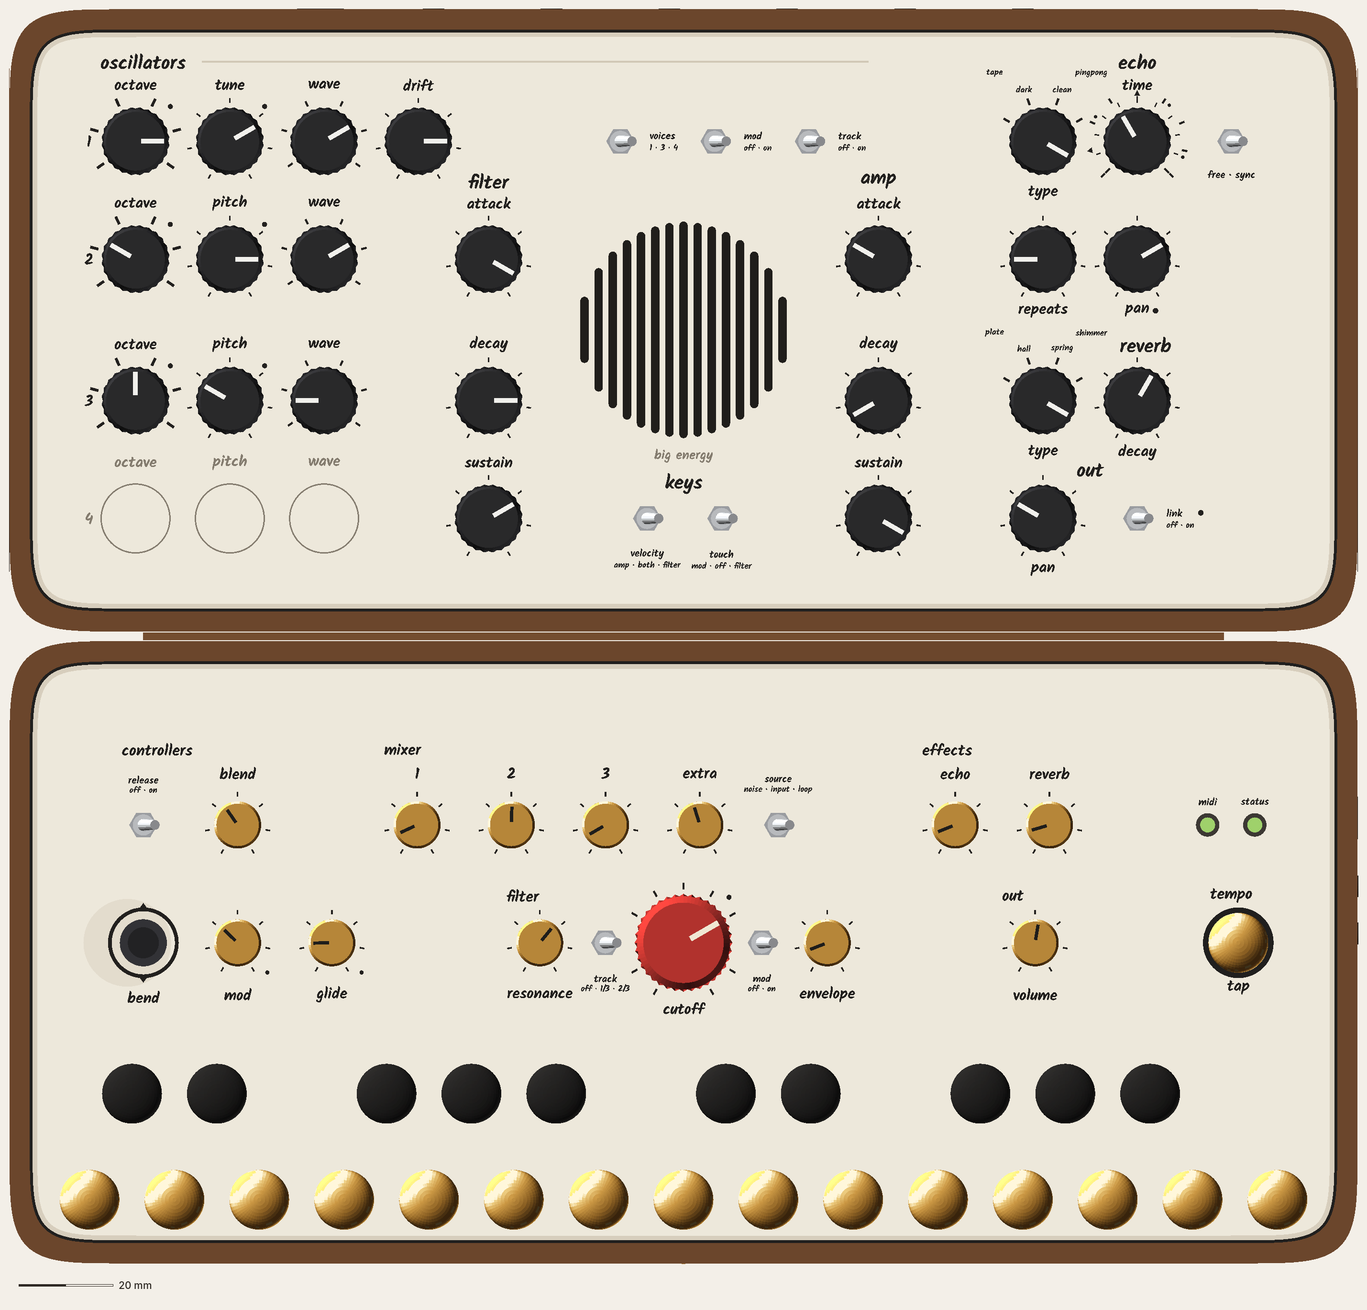
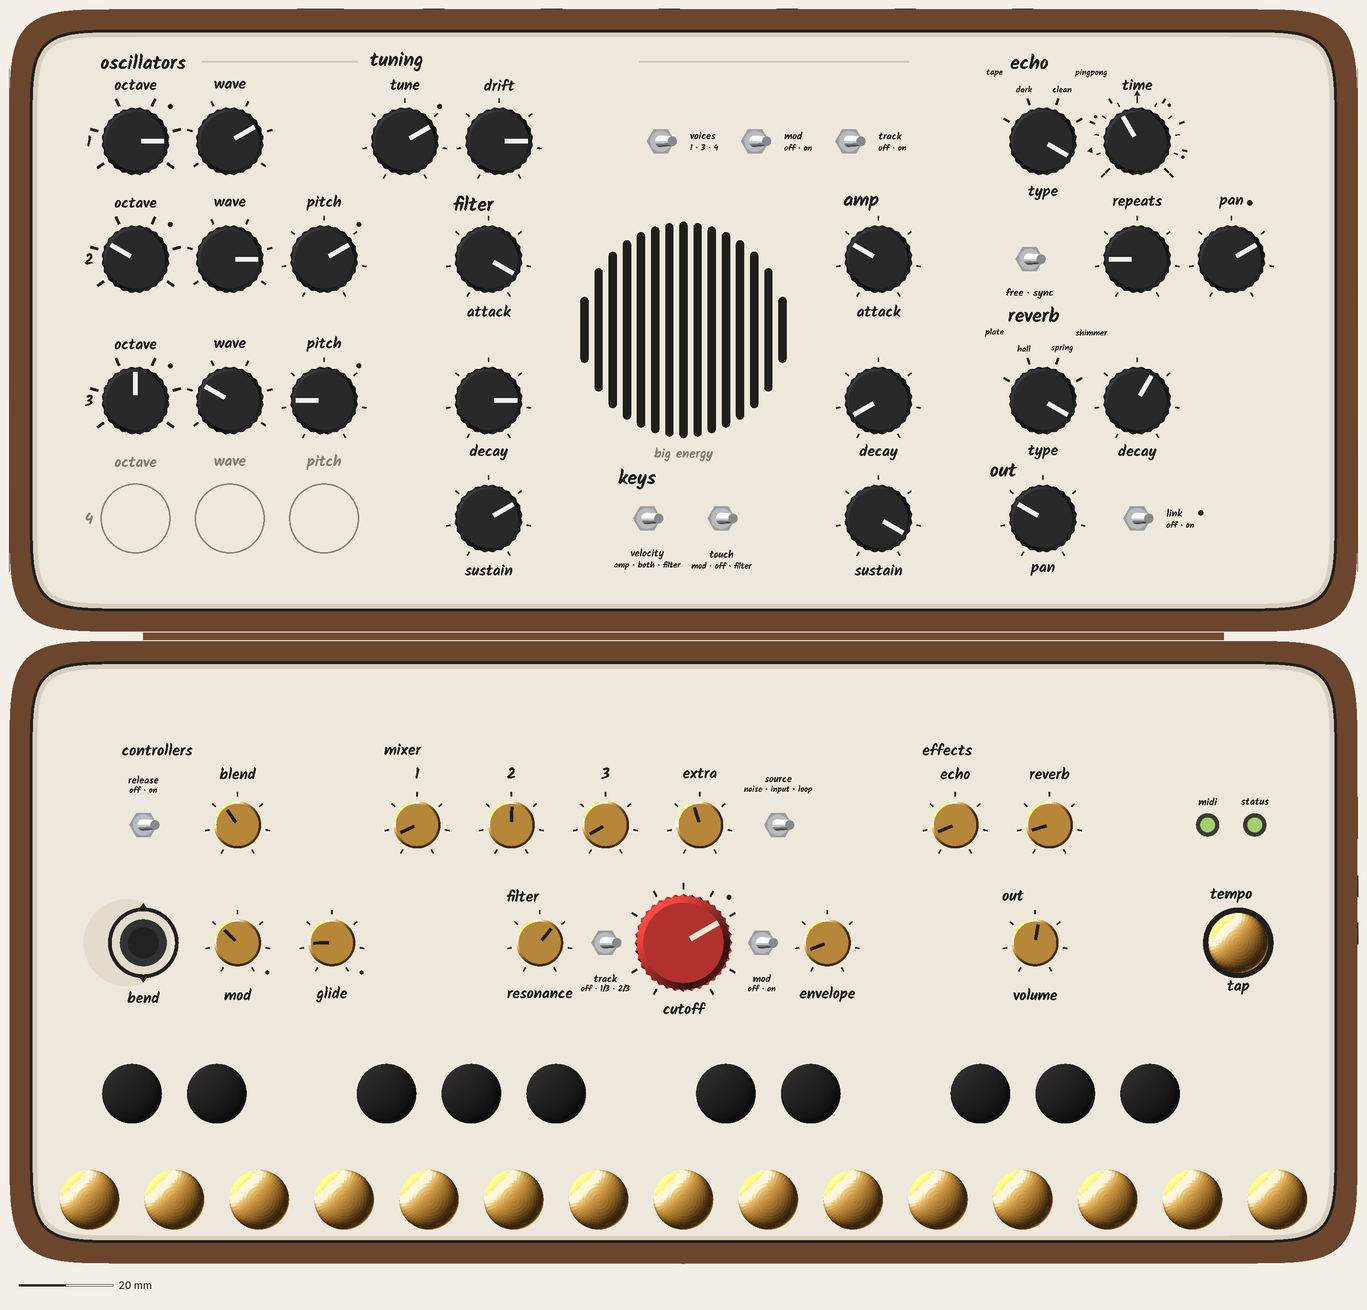
CATHEDRAL steer 5 fixes 2, visual: P5O headings top-left (SECTIONS_LEFT + real-Kalam fits), hairline b over the switch bank, ghost / name from the checker; both full tops re-rendered; look doc rev 9.1; real-Kalam 0

diff --git a/design/concepts/_mock-src/rb.py b/design/concepts/_mock-src/rb.py
@@ -1645,6 +1645,32 @@ def nv_fit_sections(lc, sections):
     """pass-through: visual's fit is in layout_check.py (6f7c036)."""
     return list(sections)
 
+P5O_HEAD_FIT = {"filter": (0.0, 0.8), "amp": (0.0, 0.8), "keys": (0.0, 0.7), "echo": (0.5, 0.0), "reverb": (0.0, 0.3),
+                "out": (-3.8, 0.0)}
+def nv_heads_left(lc, sections):
+    """steer 5 score fixes 2. P5O: systems' SECTIONS_LEFT (every heading top-left of its group), with the visual's
+    real-Kalam fits (P5O_HEAD_FIT, for systems to fold): "filter" / "amp" +0.8 ("amp"'s descender sat 0.24 from the
+    attack knob's top tick), "keys" +0.7 (0.89 from velocity's nut), "echo" +0.5 x (1.17 from "tape"), "reverb" +0.3
+    (1.35 from "plate"), "out" 3.8 into the gutter (0.82 over reverb's "type"). Returns (heads, subs, halign).
+    P5R keeps systems' centred headings: left-aligned, "echo" / "reverb" land on their type fans and "envelopes" on
+    voices (6 rule violations), so P5R needs systems' geometry first."""
+    if getattr(lc, "SECTIONS_LEFT", None):
+        heads = [(t, x + P5O_HEAD_FIT.get(t, (0, 0))[0], d + P5O_HEAD_FIT.get(t, (0, 0))[1]) for t, x, d in lc.SECTIONS_LEFT]
+        return heads, [(t, x - len(t) * 0.25 * lc.SUB_S, d) for t, x, d in nv_fit_subheads(lc)], "left"
+    fit = {"keys": 0.7} if getattr(lc, "VARIANT", "") == "P5R" else {}   # P5R "keys" +0.7 (0.89 from velocity's nut)
+    return [(t, x, d + fit.get(t, 0.0)) for t, x, d in sections], nv_fit_subheads(lc), "center"
+
+def nv_hair(lc):
+    """systems' HAIR, with one visual fit: the second run starts over the switch bank (at voices' nut), not straight
+    after "tuning". Drawn from "tuning" it read as tuning's leader and claimed voices · mod · track for tuning; with a
+    gap over tune / drift it reads as the oscillators line resuming over the oscillators' switches."""
+    out = []
+    for n, x0, d0, x1, d1 in getattr(lc, "HAIR", []):
+        if n == "oscillators hairline b":
+            x0 = [i for i in lc.lid if i[0] == "PARA"][0][1] - 4.6
+        out.append((n, x0, d0, x1, d1))
+    return out
+
 def nv_fit_subheads(lc):
     """steer 4's fit is in layout_check.py (6f7c036). Steer 5, P5R: "filter" / "amp" on the "envelopes" heading line
     (see below), centred over their groups: at d 79.5 they sat 0.5 from the "decay" legends (real Kalam)."""
@@ -1664,8 +1690,6 @@ def nv_notes(lc):
 
 NV_KEYS_COLUMN = True
 NV_UNDER_GAP = 2.0        # "free · sync" under its toggle: at 1.75 real Kalam sat 1.27 from the nut
-OSC_LEADER = (21.5, 0.2)  # P5O "oscillators" leader: starts this far right of the margin line (Kalam Bold 3.0 word ≈ 18.6 + 2.9 clear);
-                          #   half-width 0.2 (a 0.4 engraved hairline: the 1.2 break-line weight read as a bar)
 BELOW2_LEAD = 1.25        # its leading: at 0.9 (the base's) "velocity" sat 0.01 over "amp · both · filter" (y descender over b / f / l)
 BELOW2_TOP = 2.25         # "below2" two-line legends (base front row, P5O keys): block top TGL + 2.25 under the switch (real Kalam ascent)
 TS_LEAD = (1.2, 1.3)     # two-line toggle legend: name centre d + 1.2, positions centre d - 1.3 (real Kalam leading;
@@ -1819,6 +1843,7 @@ class Nave(Cathedral):
         L0 = self.LY0
         return squircle2d(4.3, L0 + 4.3, FO_W - 4.3, L0 + self.D - 4.3, self.PLATE_RC, SQ_N)
 
+    NAME_FIT = {"P5O": 0.3}   # score fixes 2: P5O's name 0.3 up, so "keys" (+0.7) keeps 1.5 under it in real Kalam
     NAME_D5 = {"P5O": 37.3, "P5R": 34.0}   # steer 5: the name's centre line (lid d), on the axis under the window
     def name_mark(self, gz):
         """score-8 pass: with the effects row re-centred, the 16 x 5 lozenge at d 94.6 sat in REVERB TYPE's fan names.
@@ -1827,7 +1852,8 @@ class Nave(Cathedral):
         lozenge; in P5O the lozenge sat 1.5 over "keys" and read as "big energy keys". A light-ink maker's mark under
         the window reads as the name, not as one more heading."""
         if self._sq():
-            d = self.NAME_D5.get(getattr(self.lc, "VARIANT", ""), self.lc.WIN[1] - self.lc.WIN[2] - 3.7)
+            nb = getattr(self.lc, "NAME_BOX", None)
+            d = (nb[2] + self.NAME_FIT.get(getattr(self.lc, "VARIANT", ""), 0.0)) if nb else self.NAME_D5.get(getattr(self.lc, "VARIANT", ""), self.lc.WIN[1] - self.lc.WIN[2] - 3.7)
             return txt(143.0, self.LY0 + d, gz + 0.01, self.NAME, 2.0, INK_LIGHT, font=HAND) if self.NAME else ""
         nz = self.LY0 + 2.2
         s = (f'{c(FO_INK)} translate([0,0,{gz}]) linear_extrude(0.04) difference(){{ {rrect2d(135,nz,151,nz+5,2.5,2.5)} '
@@ -1907,20 +1933,13 @@ class Nave(Cathedral):
                 bx = lc.tbox(x, d, lab, sz, where, r)
                 cy = (bx[1] + bx[3]) / 2 + (lc.BEHIND_EXTRA if where == "behind" else 0.0)
                 s += txt(x, L0 + cy, z, lab, sz, ink, font=st.font)
-        sections = nv_fit_sections(lc, sections)
-        for t, x, d in sections:                         # one heading per group, in the hand
-            if t == "oscillators" and getattr(lc, "VARIANT", "") == "P5O":
-                # steer 5 fixes (visual): the oscillator group runs from octave 1 to the switch bank (voices · mod ·
-                # track), 160 mm, and a centred word over the knobs left the bank unheaded. The heading starts on the
-                # margin line and an engraved leader runs on from it to the bank's end, so the whole run is claimed
-                x0 = lc.OX[0] - lc.KN
-                s += txt(x0, L0 + d, z, t, lc.HS, FO_INK, font=HAND, halign="left")
-                s += box(x0 + OSC_LEADER[0], L0 + d - OSC_LEADER[1], z, self.osc_bank_end(), L0 + d + OSC_LEADER[1],
-                         z + 0.03, self.rule_col())
-                continue
-            s += txt(x, L0 + d, z, t, lc.HS, FO_INK, font=HAND)
-        for t, x, d in nv_fit_subheads(lc):             # sub-heads under a heading ("filter", "amp")
-            s += txt(x, L0 + d, z, t, lc.SUB_S, FO_INK, font=HAND)
+        heads, subs, ha = nv_heads_left(lc, sections)
+        for t, x, d in heads:                            # steer 5 score fixes 2: P5O's headings top-left of their groups
+            s += txt(x, L0 + d, z, t, lc.HS, FO_INK, font=HAND, halign=ha)
+        for t, x, d in subs:                             # sub-heads ("filter", "amp")
+            s += txt(x, L0 + d, z, t, lc.SUB_S, FO_INK, font=HAND, halign=ha)
+        for nm_, x0, d0, x1, d1 in nv_hair(lc):            # engraved hairlines (P5O: "oscillators" running on)
+            s += box(x0, L0 + d0, z, x1, L0 + d1, z + 0.03, self.rule_col())
         for nm_, x, d, _ in getattr(lc, "DOTS", []):     # matching link dots (echo pan <-> link)
             s += cyl(x, L0 + d, z - 0.005, 0.04, 1.2, ink, fn=24)
         for t, x, d, sz, a in nv_notes(lc):              # small free legends: lead-ins in the ink, notes / cues light
@@ -1928,11 +1947,6 @@ class Nave(Cathedral):
             s += txt(x, L0 + d, z, t, sz, col, font=st.font, halign=a)
         s += self.vco4_ghost(z)
         return s
-
-    def osc_bank_end(self):
-        """x where P5O's oscillator switch bank ends: track's "off · on" (right2), real Kalam ≈ 1.25 x the estimate."""
-        b = [i for i in self.lc.lid if i[0] == "OSC 3 CTL"][0]
-        return b[1] + 6.2 + len("off · on") * 0.5 * self.lc.NS * 1.25
 
     def _ghosting(self):
         lc = self.lc
@@ -1948,10 +1962,10 @@ class Nave(Cathedral):
             return ""
         L0, R4 = self.LY0, lc.R4
         s = ""
-        for x, lab in zip(lc.OX[:3], ("octave", "pitch", "wave")):
-            s += (f'{c(INK_LIGHT)} translate([{x:.3f},{L0 + R4:.3f},{z:.3f}]) linear_extrude(0.03) '
-                  f'difference(){{ circle(r={lc.KN:.3f},$fn=96); circle(r={lc.KN - 0.3:.3f},$fn=96); }}\n')
-            bx = lc.tbox(x, R4, lab, lc.LS, "behind", lc.KN)
+        for n_, x, d, r, lab in getattr(lc, "GHOST", []):   # the checker's VCO 4 outlines (octave · wave · pitch)
+            s += (f'{c(INK_LIGHT)} translate([{x:.3f},{L0 + d:.3f},{z:.3f}]) linear_extrude(0.03) '
+                  f'difference(){{ circle(r={r:.3f},$fn=96); circle(r={r - 0.3:.3f},$fn=96); }}\n')
+            bx = lc.tbox(x, d, lab, lc.LS, "behind", r)
             s += txt(x, L0 + (bx[1] + bx[3]) / 2 + lc.BEHIND_EXTRA, z, lab, lc.LS, INK_LIGHT, font=self.style().font)
         # (its "4" is the checker's NOTE since d56403f, drawn light in lid_face)
         return s

diff --git a/design/branches/concepts/cathedral/how-it-looks-and-feels.md b/design/branches/concepts/cathedral/how-it-looks-and-feels.md
@@ -1,6 +1,6 @@
-# CATHEDRAL: how it looks and feels (visual, rev 9: steer 5 fixes, both options side by side)
+# CATHEDRAL: how it looks and feels (visual, rev 9.1: steer 5 fixes 2, both options side by side)
 
-Seed: CHAMBER rev 2 + FOLD-105 v1.1. Owner record: `design/owner.md` (14:12 onwards). Read with `how-it-works.md`, where systems owns the geometry; **§19** is this revision's layout (commit a80d7c: equal-gutter base, P5O as columns with a VCO 4 slot, P5R with out at the end of its bottom row, pivots inboard, the gap rule). The director's steer-5 scores (P5R 8, P5O 6, base 7) are in `design/notes/director.md`.
+Seed: CHAMBER rev 2 + FOLD-105 v1.1. Owner record: `design/owner.md` (14:12 onwards). Read with `how-it-works.md`, where systems owns the geometry; **§19** is this revision's layout (commit a80d7c: equal-gutter base, P5O as columns with a VCO 4 slot, P5R with out at the end of its bottom row, pivots inboard, the gap rule). The director's steer-5 scores (P5R 8, P5O 6, base 7) are in `design/notes/director.md`; then P5R 9, P5O 8. Rev 9.1 lays out systems' fixes for the 10 (f8ba494): P5R's oscillator switches on one line under the VCOs; P5O's headings top-left, every VCO reading octave · wave · pitch, tune · drift as a headed "tuning" pair after VCO 1, and out in R4's right slot.
 
 ## Steer 5: both halves, by one rule
 
@@ -15,12 +15,12 @@ Seed: CHAMBER rev 2 + FOLD-105 v1.1. Owner record: `design/owner.md` (14:12 onwa
 ### The two lids, side by side
 <div style="display:grid;grid-template-columns:1fr 1fr;gap:1rem;align-items:start">
 <figure>
-<img src="img/cathedral-s5-P5O-top-9.9px-per-mm.png" alt="Exact top view of P5O open flat. Lid: an oscillator block of three rows at the left (octave, pitch, wave; tune and drift on the first row), a fourth row drawn as three pale outlined circles with pale words for VCO 4; the oscillator switches voices, mod and track along the top row, claimed by a hairline running on from the oscillators heading; a filter column down the window's left and an amp column down its right, each headed at the top; the keys switches under the window; echo, reverb and out stacked on the right. Base: two rows, levels behind and what the hands ride in front.">
-<figcaption><b>P5O, his lid</b> (exact, scale bar 20 mm). Left to right in columns: oscillators → filter → (window) → amp → echo, reverb, out. Every heading sits on top of its group. The pale fourth row is <b>VCO 4's slot, drawn as a ghost</b>: built without it, that area is plain plate.</figcaption>
+<img src="img/cathedral-s5-P5O-top-9.9px-per-mm.png" alt="Exact top view of P5O open flat. Lid: an oscillator block at the left, each row reading octave, wave, pitch, numbered 1 to 3 in the margin, with a fourth row drawn as three pale outlined circles and pale words for VCO 4; on the top row, after VCO 1, a pair headed tuning (tune, drift), then the voices, mod and track switches under a hairline that continues the oscillators heading; a filter column down the window's left and an amp column down its right; the keys switches under the window; echo, reverb and out stacked on the right. Every heading starts at its group's top left. Base: two rows, levels behind and what the hands ride in front.">
+<figcaption><b>P5O, his lid</b> (exact, scale bar 20 mm). Left to right in columns: oscillators (with tuning after VCO 1) → filter → (window) → amp → echo, reverb, out. <b>Every heading starts at the top left of its group.</b> The hairline from "oscillators" stops at "tuning" and resumes over the oscillator switches. The pale fourth row is <b>VCO 4's slot, drawn as a ghost</b>: built without it, that area is plain plate. <b>VCO 4</b> (optional, his call): ≈ +$20–30, ≈ −0.5 h of battery, the Daisy's last pin, and no closing cost. <b>P5O's column layout</b>, with or without VCO 4, needs the bend stick lowered to 9.0 mm to close at 55.2 mm (as is: 58.8).</figcaption>
 </figure>
 <figure>
 <img src="img/cathedral-s5-P5R-top-9.9px-per-mm.png" alt="Exact top view of P5R open flat. Lid: a top row of oscillators 1, 2 and 3 with tuning at the right behind a short engraved break; a middle row of voices and mod switches, the filter envelope, the window under the envelopes heading, the amp envelope, and the keys switches; a bottom row of echo, reverb and out from left to right. Same base as P5O.">
-<figcaption><b>P5R, the rule in rows</b> (exact, scale bar 20 mm). Top to bottom: oscillators ‖ tuning; voices · filter · (window) · amp · keys; echo → reverb → out. The bottom row now runs to the right margin, so no corner is left empty.</figcaption>
+<figcaption><b>P5R, the rule in rows</b> (exact, scale bar 20 mm). Top to bottom: oscillators ‖ tuning, with each VCO's switch (voices, mod, track) on one line under it; filter · (window) · amp · keys; echo → reverb → out. The envelopes sit 5.9 mm off the axis: filter is alone on one side, amp and keys on the other (systems' stated compromise). Headings here are still centred (see Open).</figcaption>
 </figure>
 </div>
 
@@ -30,13 +30,14 @@ Seed: CHAMBER rev 2 + FOLD-105 v1.1. Owner record: `design/owner.md` (14:12 onwa
 </figure>
 
 **The two, by eye:**
-- **P5R reads first time,** one heading line per row, in signal order down the page. With out at the end of the bottom row, every row now fills margin to margin. What's left: the voices / mod pair at the middle row's left has no heading of its own, and the row has more air at its ends than at its centre (open question 1).
-- **P5O now reads as one order,** left to right by columns, with every heading on top. The oscillator switches sat unclaimed along the top row. They're now part of the oscillator group: the heading starts on the margin line, and a hairline runs on from it to the end of the switch bank. **P5O is the only option with room for a 4th analog oscillator.** Its cost is the bend stick, which must be lowered to 9.0 to close at 55.2 mm (drawn lowered).
-- **My view:** P5R is still the clearer of the two, but the gap has closed. If he wants the fourth oscillator, P5O is now a layout I'd stand behind.
+- **P5R reads first time,** one heading line per row, in signal order down the page. Each oscillator's switch now sits under its own VCO, so the oscillator group reads as one band. The envelopes sit 5.9 mm off the window's axis. At arm's length the window still reads as centred between them, because the keys column balances the amp side.
+- **P5O now reads as one order,** left to right by columns. Every heading starts top left, so the eye finds every group in the same place. Every VCO reads octave · wave · pitch, and VCO 1 is followed by its own "tuning" pair (tune is VCO 1's pitch, as on a Model D). **P5O is the only option with room for a 4th analog oscillator.** Its layout cost is the lowered bend stick, which is drawn lowered.
+- **My view:** the two are now close. P5R is the calmer page; P5O has the Model D block and the room for VCO 4.
 
 ### The fourth oscillator (P5O only)
-- **Drawn as a ghost:** three 0.3 mm outlines at the knobs' real size (Ø 14.9) at octave · pitch · wave, with their words and the numeral "4" in the light ink. They sit exactly where the fitted knobs would go (`CATHEDRAL_VCO4=1`: checker 0, real-font 0). Nothing else on the lid moves.
+- **Drawn as a ghost:** three 0.3 mm outlines at the knobs' real size (Ø 14.9) at octave · wave · pitch, with their words and the numeral "4" in the light ink. They sit exactly where the fitted knobs would go (`CATHEDRAL_VCO4=1`: checker 0, real-font 0). Nothing else on the lid moves.
 - **On the base:** mixer 4 joins the rear row between 3 and extra. The rear gutters tighten from 24.1 to 17.4 mm (still ≥ 15). That isn't drawn: the base as shown is the one without VCO 4.
+- **Cost, stated right:** VCO 4 adds ≈ +$20–30, ≈ −0.5 h of battery and uses the Daisy's last pin. It adds **no closing cost**: the lowered bend stick is P5O's column layout, and it applies with or without VCO 4.
 - **The look:** fitted, the oscillator block becomes a full 4 × 3 grid. It's squarer and calmer than three rows with a hole under them, so it improves the lid's look as well as its sound. The cost is systems' (≈ +$20–30, ≈ −0.5 h of battery, the last Daisy pin).
 
 ### The spine, made to belong
@@ -79,21 +80,20 @@ Seed: CHAMBER rev 2 + FOLD-105 v1.1. Owner record: `design/owner.md` (14:12 onwa
 - **Lid, the sound:** oscillators 1 · 2 · 3 [· 4] (octave, pitch, wave; tune and drift by them; voices, mod, track); envelopes, filter and amp (attack, decay, sustain); keys (velocity, touch); echo (type, time with free · sync, repeats, pan); reverb (type, decay); out (pan, link).
 - **Base, the hands and the levels:** rear row: controllers (release, blend), mixer 1 · 2 · 3 · extra with source (noise · input · loop), effects (echo, reverb), the midi and status lights. Front row: controllers (bend, mod, glide), filter (resonance, track, **cutoff**, mod, envelope), out (volume), tempo (tap).
 
-### Checks (rev 9)
+### Checks (rev 9.1)
 - **Systems' rules run on the visual's positions** (the moved headings, numerals, name, the leader and the new leading): **0** for P5O, P5O with VCO 4, and P5R. `layout_check.py` as committed: 0 for both.
 - **Real Kalam** (measured on the rendered model's text, with the ghost knobs as controls and the leader as a line): **0** for P5O, P5O with VCO 4, and P5R.
-- **Visual fits, for systems to fold into `layout_check.py`:**
-  - P5O "filter" / "amp" headings +0.8 (real Kalam sat 0.8 over "attack");
-  - P5O "reverb" at (241, 60.8), over decay and right of the type fan (it sat 0.8 from "spring" and 1.43 from decay);
-  - P5O "oscillators" left-aligned at the margin line (x 19.3), with a 0.4 mm leader at d 120.9 from x 40.8 to the end of track's legend (182.3);
-  - P5R "reverb" +2.0 x (0.97 from "shimmer"), P5R "keys" +0.5 (1.13 from velocity's nut; my old −1.5 is dropped);
-  - VCO numerals 0.3 further out (1.30 from the octave knobs);
-  - "below2" legends: leading **1.25** between name and positions (at 0.9 "velocity" sat 0.01 over "amp · both · filter"); block top TGL + 2.25 under the switch;
-  - the name: a text box, "big energy", Kalam 2.0, at (143, d 37.3) in P5O and (143, d 34.0) in P5R.
+- Rev 9's fits are in `layout_check.py` (d56403f). **New visual fits for rev 9.1, for systems to fold:**
+  - P5O headings (from SECTIONS_LEFT): "filter" / "amp" +0.8 ("amp"'s descender sat 0.24 from the attack knob's top tick), "keys" +0.7 (0.89 from velocity's nut), "echo" +0.5 x (1.17 from "tape"), "reverb" +0.3 (1.35 from "plate"), "out" 3.8 left into the gutter (0.82 over reverb's "type");
+  - P5O name +0.3 (to d 37.6), so "keys" keeps 1.5 under it;
+  - P5O "oscillators hairline b" starts at voices' nut (x BX − 4.6), not just after "tuning". Drawn from "tuning", it read as tuning's leader and claimed the switches for tuning;
+  - P5R "keys" +0.7 (0.89 from velocity's nut);
+  - the ghost legends' box: + BEHIND_EXTRA, as for the fitted knobs (the checker's GHOST box lacks it).
+- **Checks, rev 9.1:** systems' rules on these positions 0, real Kalam 0 (P5O, P5O with VCO 4, P5R).
 
 ### Open
-1. **P5R:** the voices / mod pair at the middle row's left has no heading. "oscillators" is two rows up. Options: an "oscillators" leader like P5O's, or moving the pair under VCO 1 (as track sits under VCO 3). Systems / director.
-2. **P5O:** the "out" heading sits between reverb's legends and the out pan. It reads correctly, but it's the tightest heading on the lid.
+1. **P5R headings top-left (director's brief):** not drawn. Left-aligned on systems' lines, "echo" and "reverb" land on their type knobs' fan names (gaps −1.0 to 0.42) and "envelopes" lands on voices (6 rule violations). It needs systems to move row C's headings above the fans and "envelopes" off the switch line first. Until then, P5R keeps centred headings.
+2. **P5O:** "out" hangs 3.8 mm into the gutter to clear reverb's "type": the one heading not exactly on its group's left edge.
 3. **Eng:** the spine's fold in the 2.1 seam, and the corner pieces' joint at the seam.
 4. **Owner:** P5O or P5R; the 4th analog oscillator (P5O only); D 132.
 

diff --git a/design/notes/visual.md b/design/notes/visual.md
@@ -1,5 +1,17 @@
 # Visual designer notes (instrument; working name retired)
 
+## CATHEDRAL steer 5 fixes 2 (2026-11-13 ~22:20): READ THIS FIRST
+- **Inputs:** systems d56403f (folded rev 9) and f8ba494 (fixes for the 10: P5R switches on one line at d 89 under the VCOs, envelopes 5.9 off the axis; P5O SECTIONS_LEFT, octave · wave · pitch, a "tuning" pair after VCO 1, out in R4's right slot, VCO4_CAPTION, GHOST / HAIR / NAME_BOX in the checker). Scores before this: P5R 9, P5O 8.
+- **rb.py:**
+  - removed: the rev-9 heading table, the numeral shift, the ghost's own "4", the oscillators-leader special case (`OSC_LEADER`, `osc_bank_end`);
+  - headings via `nv_heads_left()`: P5O draws SECTIONS_LEFT left-aligned plus `P5O_HEAD_FIT` (filter / amp +0.8, keys +0.7, echo +0.5 x, reverb +0.3, out −3.8 x); P5R stays centred (+0.7 on keys);
+  - hairlines via `nv_hair()` (systems' HAIR, with run b starting at voices' nut);
+  - ghost from `lc.GHOST`; name from `lc.NAME_BOX` + `NAME_FIT` (P5O +0.3); the ghost "4" is the checker's NOTE, drawn light.
+- **Checks:** `/tmp/scr/s5f_kalam.py` and `/tmp/scr/s5f_rules.py` (updated for HAIR / GHOST / NAME_BOX): 0 / 0 for P5O, P5O+VCO4, P5R.
+- **Images:** the two full tops re-rendered (same names). Nothing else was rendered.
+- **Doc rev 9.1:** captions, the VCO 4 cost stated right (no closing cost; the stick is P5O's layout), new fits, Open.
+- **Open:** P5R headings top-left, which the director asked for, can't be drawn on systems' lines: echo / reverb hit the fans and envelopes hits voices (6 violations). Systems must move them first.
+
 ## CATHEDRAL steer 5 FIXES (2026-11-13 ~22:00, NEW visual designer; previous session ended): READ THIS FIRST
 **Inputs:** systems a80d7c (§19: equal-gutter base; P5O as columns, headings on top, VCO 4 slot on R4; P5R out at the end of row C; pivots inboard; the gap rule). Director: P5R 8 / P5O 6 / base 7; spine closed, standing and flat, with brass on the façade's impost lines; corners shown closed; the VCO 4 slot shown. Owner 20:43–20:45 (both explorations; spine back if it looks good; Apple-style corners; "See if we can fit a fourth oscillator").
 
